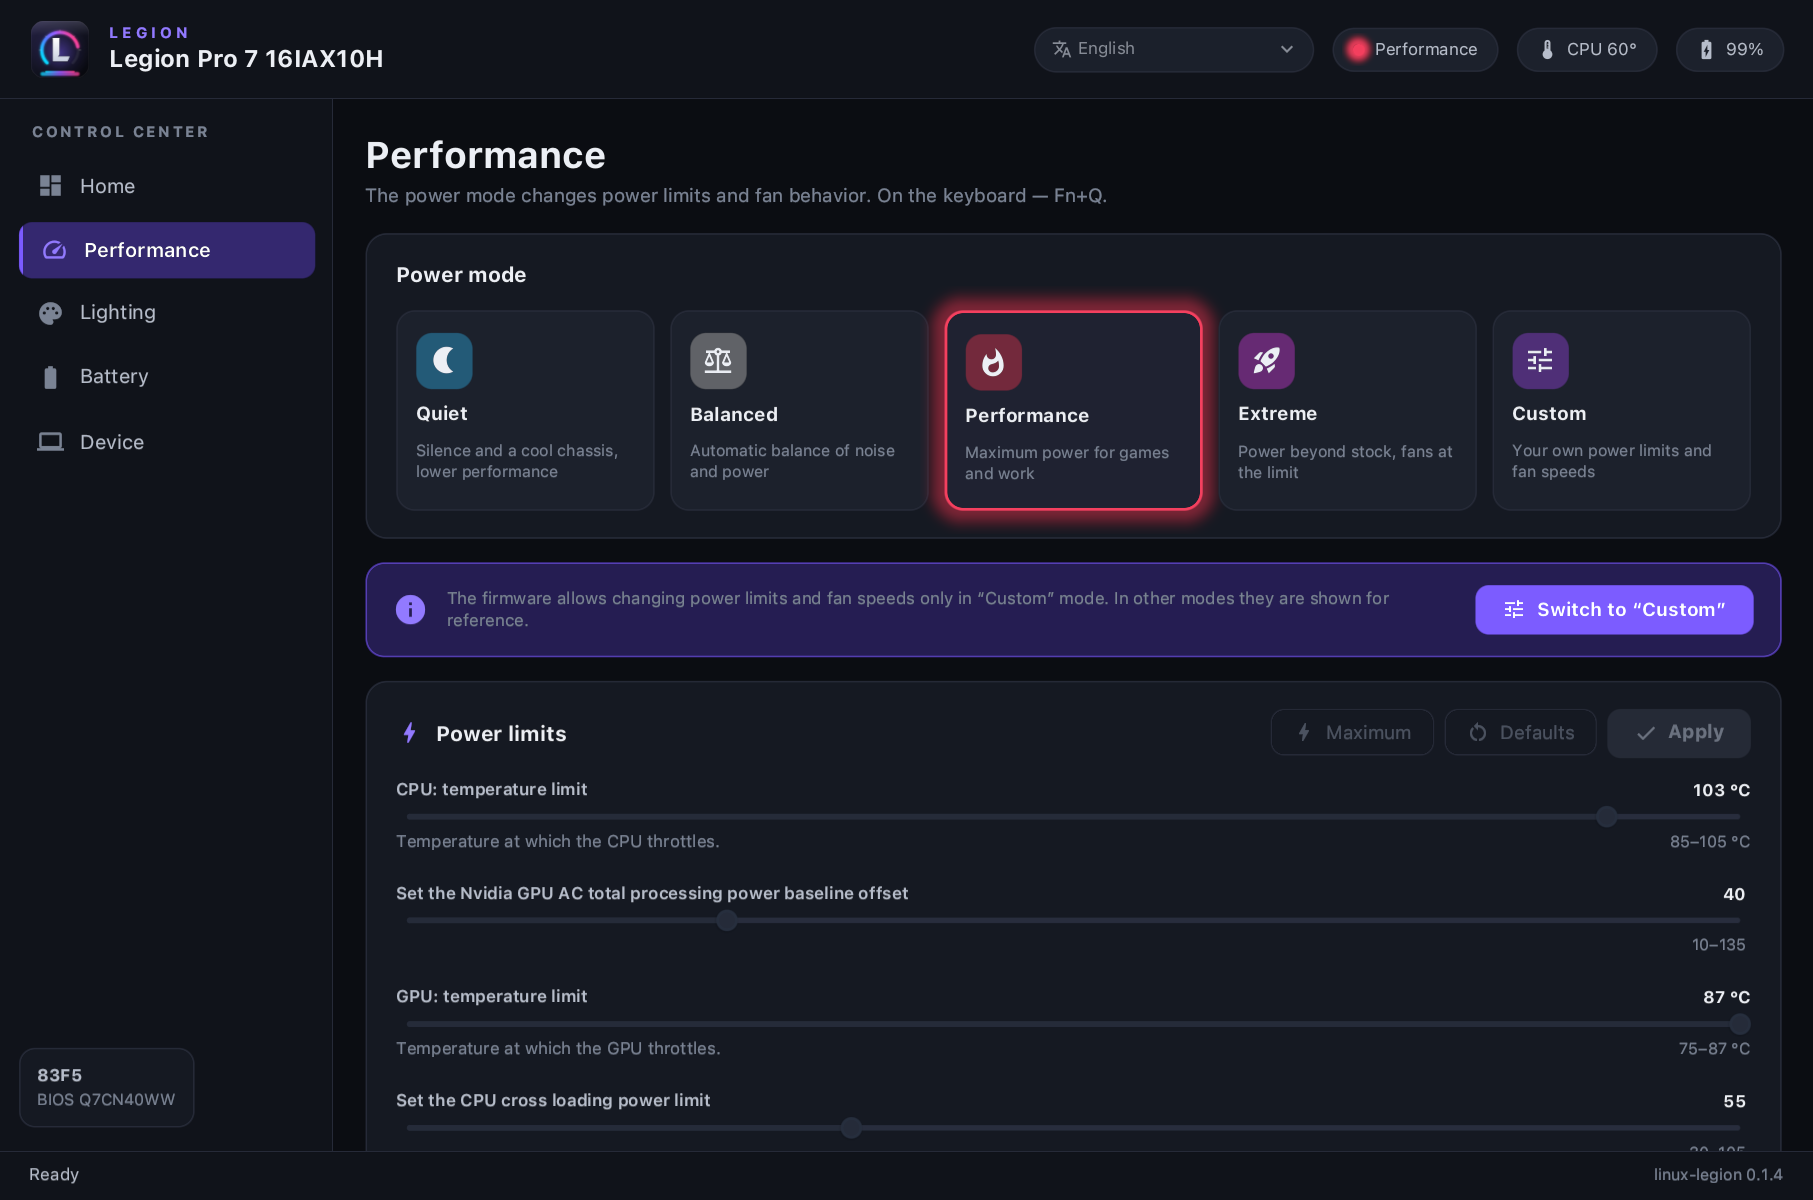
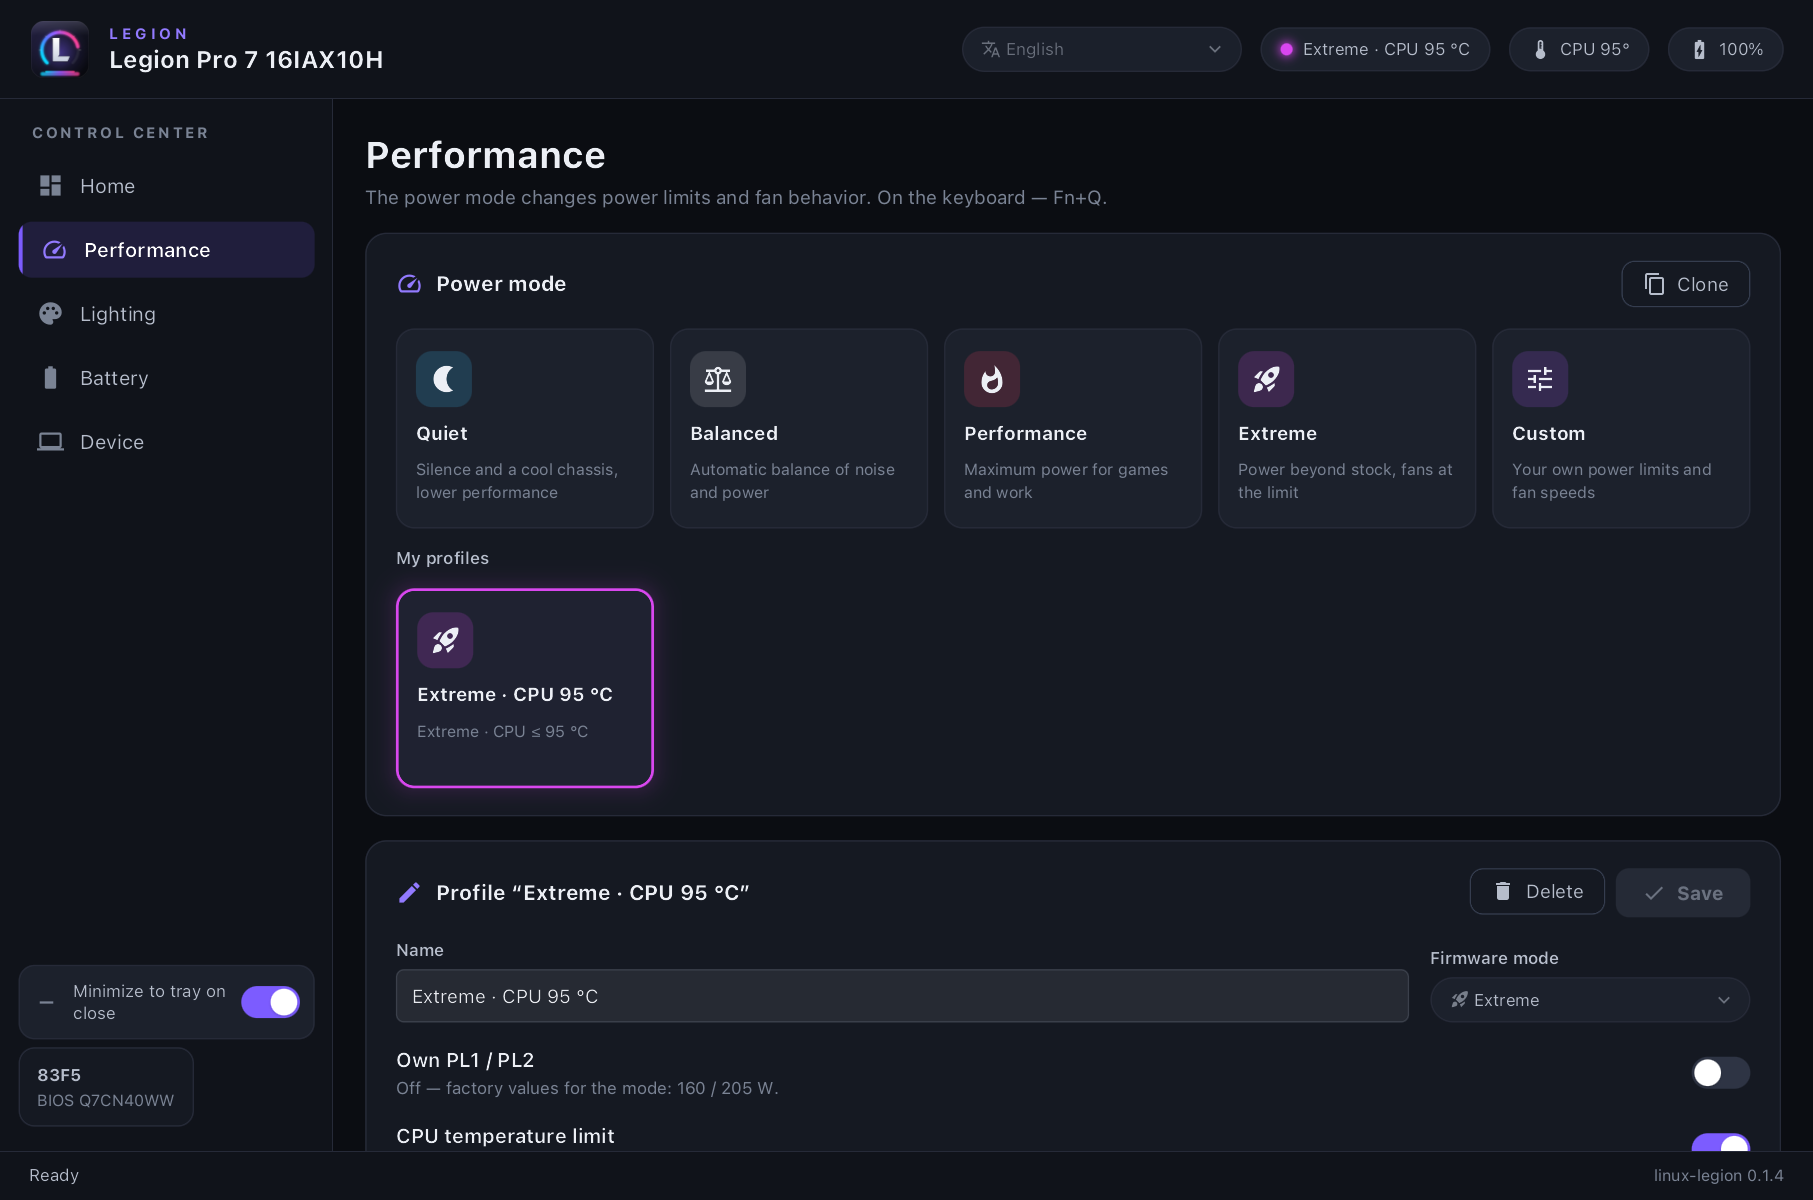
README: профили и карточки CPU/GPU — скриншоты с ноутбука, AUR linux-legion / -bin / -git; описание выпуска 0.2.0; syngui-release.toml: arches x86_64, aur_source

diff --git a/src/ui/pages/power.rs b/src/ui/pages/power.rs
@@ -35,13 +35,15 @@ pub fn view(ctx: AppCtx) -> impl Widget {
         .child(modes_card(ctx.clone()))
         .child(profile_editor(ctx.clone()))
         .child(custom_notice(ctx.clone()))
-        .child(
+        // Имя — для `--scroll-to power-limits` (снимки для README).
+        .child(syngui::widgets::Named::new(
+            "power-limits",
             Row::new()
                 .gap(18.0)
                 .cross_axis_alignment(CrossAxisAlignment::Stretch)
                 .child(tunables(ctx.clone(), Group::Cpu).class("grow").class("half"))
                 .child(tunables(ctx.clone(), Group::Gpu).class("grow").class("half")),
-        )
+        ))
         .child(cpu(ctx.clone()))
         .child(fans(ctx.clone()))
         .child(autoapply(ctx))

diff --git a/docs/release-notes/0.2.0.md b/docs/release-notes/0.2.0.md
@@ -1,0 +1,31 @@
+## linux-legion 0.2.0
+
+### Own power profiles
+- **Clone** any firmware mode or profile, give it a name, edit or delete it.
+- A profile sits on top of a firmware mode (Quiet … Extreme, Custom): own CPU PL1/PL2,
+  a **CPU temperature limit**, and — for Custom-based profiles — the firmware limits and fan targets.
+- The profile is active while its mode is on (Fn+Q included); picking a built-in mode drops it.
+  The header shows the active profile.
+
+### CPU temperature limit in any mode
+- Implemented with the Intel TCC offset (`intel_tcc_cooling`), so it works in Extreme too —
+  e.g. *Extreme* with the GPU at its full 175 W and the CPU held at 95 °C (verified on a
+  Legion Pro 7 16IAX10H under full CPU + GPU load). The BIOS resets the offset on every mode
+  switch; the service keeps it.
+
+### CPU and GPU cards
+- Firmware power limits are split into side-by-side CPU and GPU cards.
+- The GPU card shows the current power limit and draw, and explains why the TGP cannot be raised
+  in Custom: the firmware reports a 0–0 range (cTGP 95 W + 15 W Dynamic Boost = 110 W on the
+  Pro 7 Gen 10), so full power lives in Performance / Extreme.
+
+### Tray
+- "Minimize to tray on close" switch in the left panel; `linux-legion --hidden` starts in the tray;
+  a second launch brings the window back.
+
+### Packaging
+- Built with syngui-cli from `syngui-release.toml` (`syngui package -w -f arch --install`).
+- AUR: `linux-legion` (from the release source), plus new `linux-legion-bin` (prebuilt) and
+  `linux-legion-git`.
+- New dependencies for the tray: `gtk3`, `libayatana-appindicator`.
+- The udev rule also makes the CPU TCC offset writable for the `wheel` group.

diff --git a/README.md b/README.md
@@ -21,9 +21,13 @@ service keeps the CPU power limits and fans in line with the selected mode).
 |---|---|
 | ![Lighting](screenshots/lighting.png) | ![Layers](screenshots/lighting-layers.png) |
 
-| Performance | Battery | Device |
-|---|---|---|
-| ![Performance](screenshots/performance.png) | ![Battery](screenshots/battery.png) | ![Device](screenshots/device.png) |
+| Performance — modes and own profiles | CPU and GPU limits |
+|---|---|
+| ![Performance](screenshots/performance.png) | ![Power limits](screenshots/performance-limits.png) |
+
+| Battery | Device |
+|---|---|
+| ![Battery](screenshots/battery.png) | ![Device](screenshots/device.png) |
 
 The interface speaks 14 languages and follows the system language; switch it live from the header.
 Screenshots are taken on a real Legion Pro 7 16IAX10H with `linux-legion --screenshot` (see [Usage](#usage)).
@@ -79,7 +83,9 @@ firmware reports. `linux-legion --simulate` shows the whole UI without the hardw
 ### Arch Linux (AUR)
 
 ```bash
-yay -S linux-legion        # or paru -S linux-legion
+yay -S linux-legion        # build from the release source (or paru -S linux-legion)
+yay -S linux-legion-bin    # prebuilt release archive
+yay -S linux-legion-git    # latest master
 ```
 
 The package installs `/usr/bin/linux-legion`, a menu entry, icons and the udev rule.
